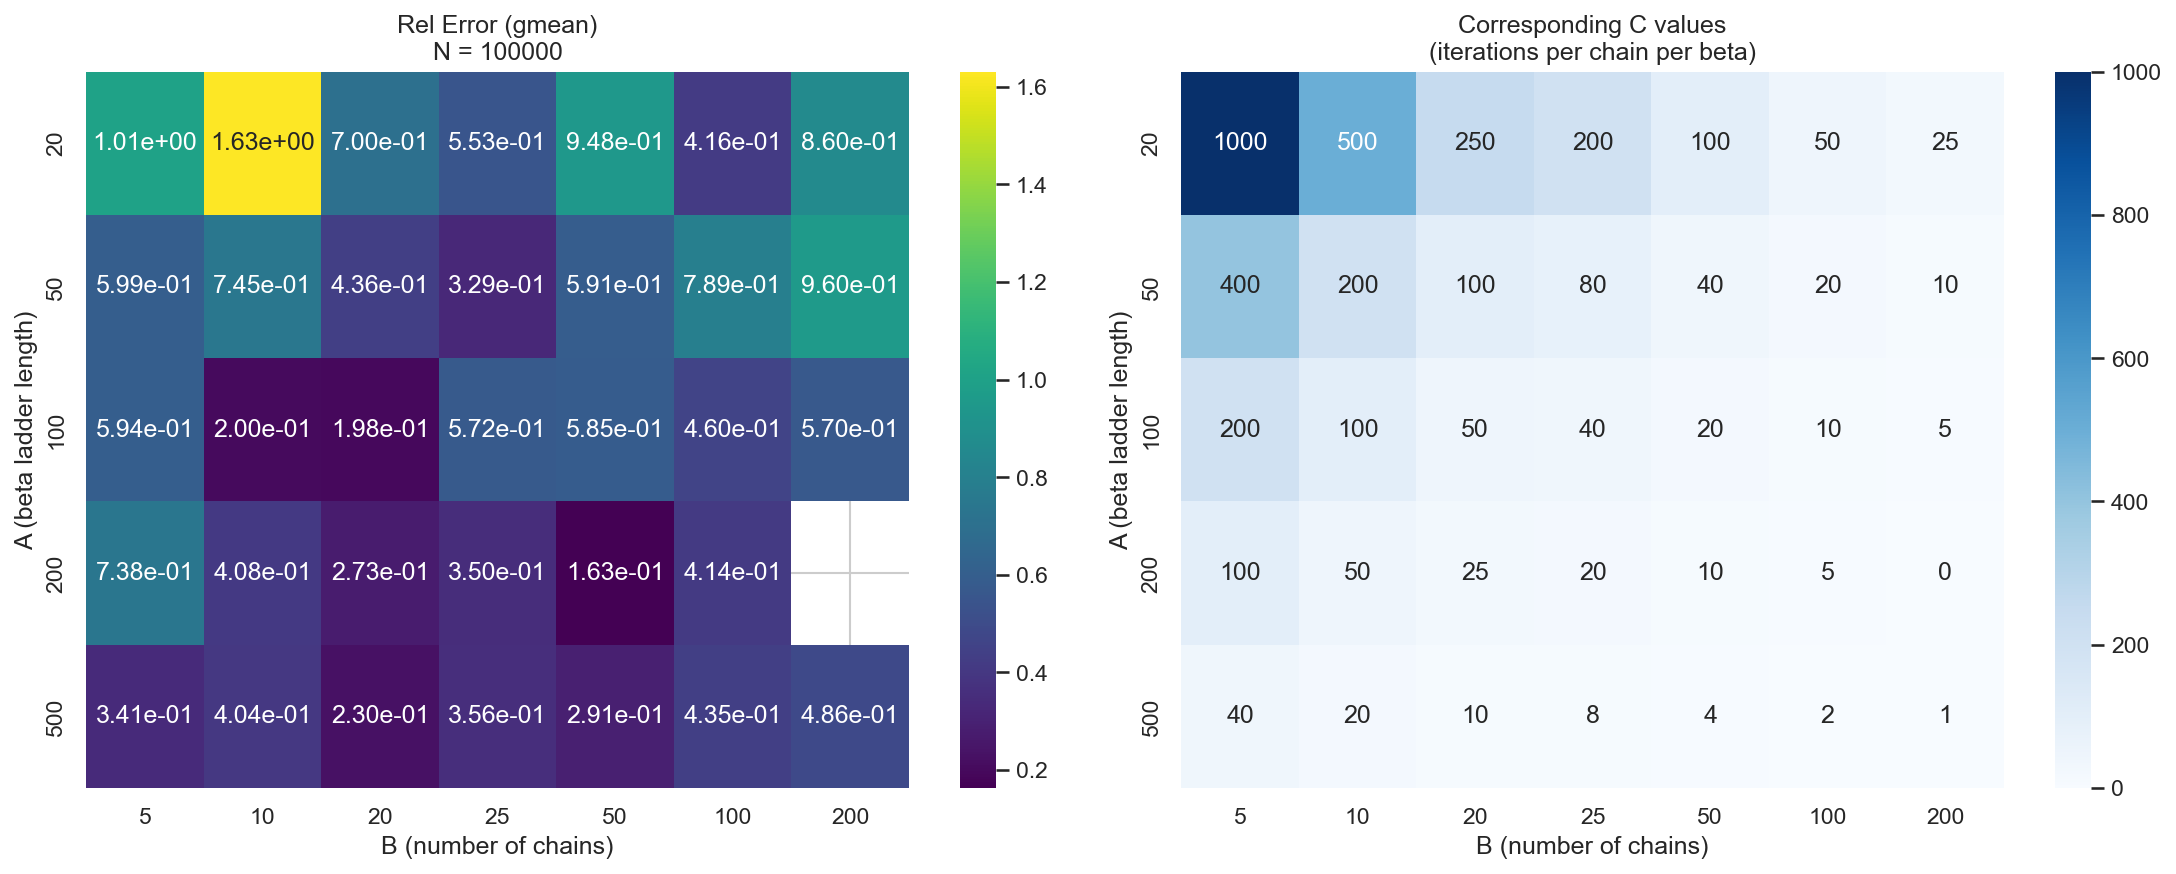
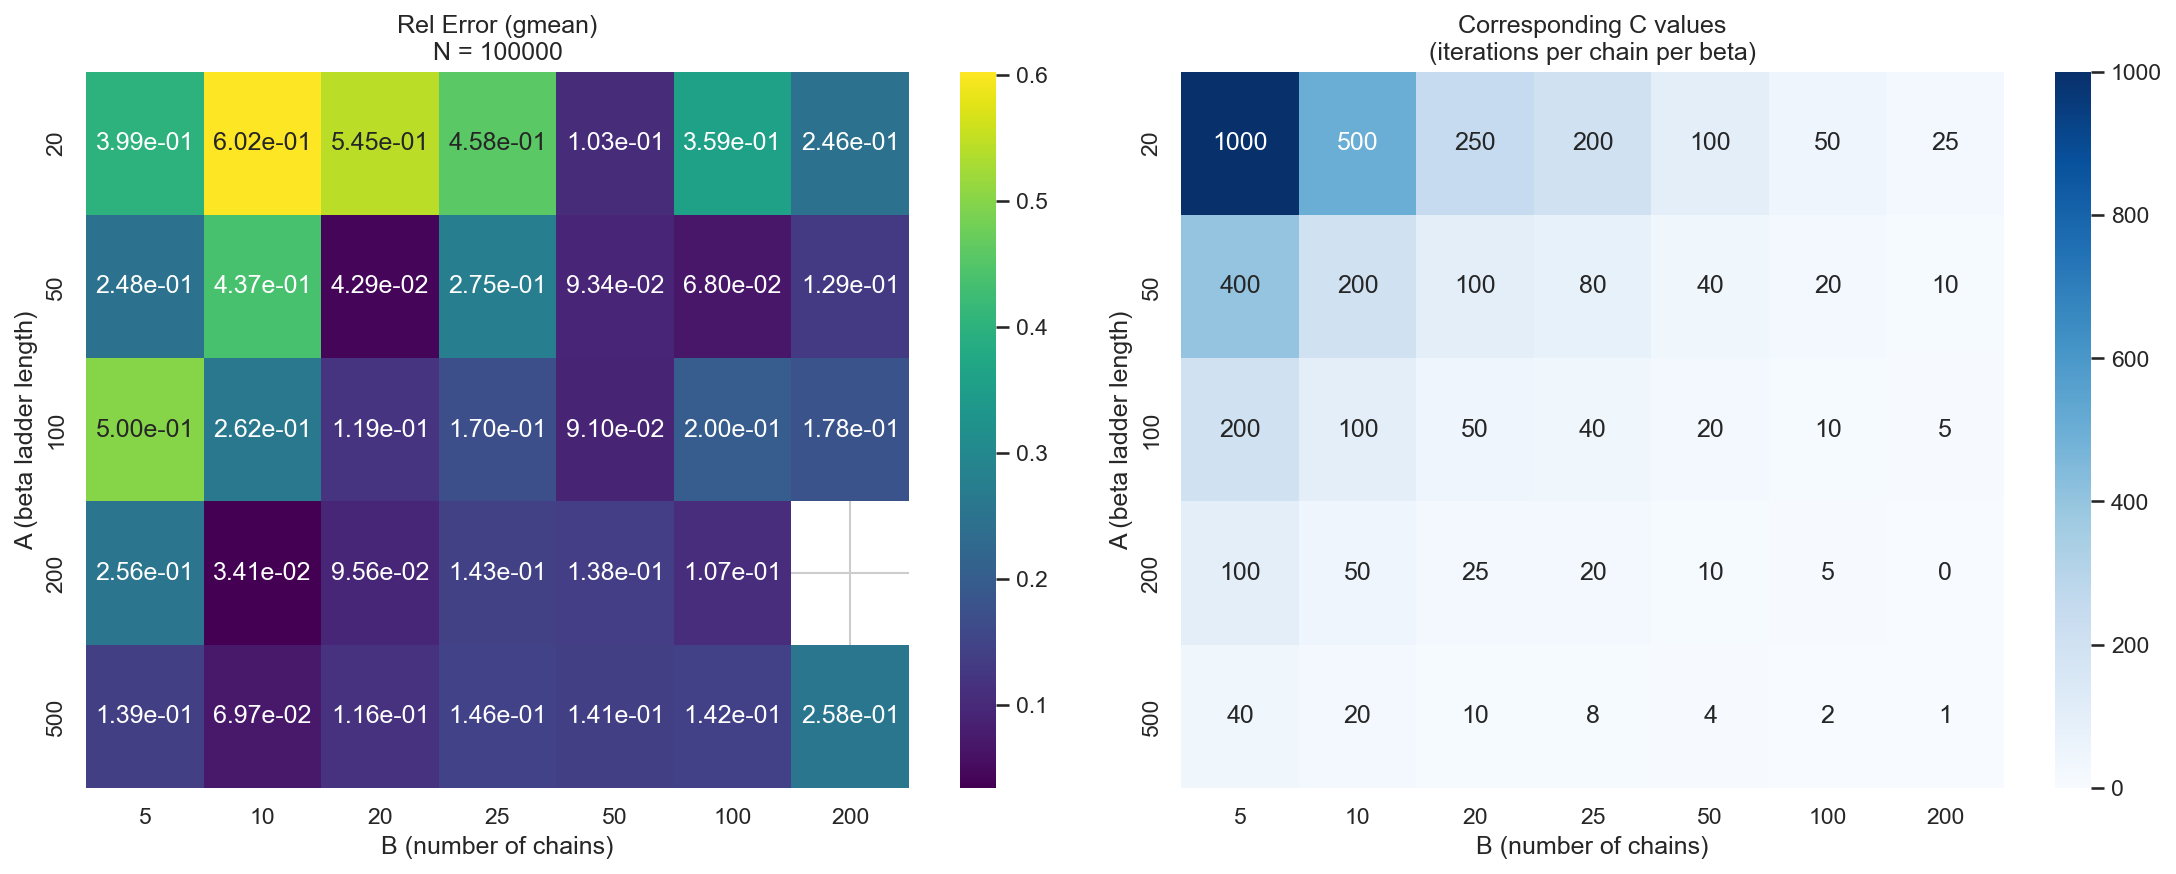
Add sparse weight model to test tensor networks with density-controlled   non-zero entries. Update heatmap plots for N=100000 and add cost   optimization grid CSV. Prototype sparse tensor visualization in notebook.

diff --git a/scripts/run_grid_heatmaps.py b/scripts/run_grid_heatmaps.py
@@ -79,18 +79,21 @@ def gstd_series(s):
 # ============================================================================
 
 def create_test_tensor_network(network_type="2x2_ring", dim=3, seed=42,
-                               eps=1e-6, alpha=0.6, spike_factor=10.0, jitter=0.1):
+                               eps=1e-6, alpha=0.6, spike_factor=10.0, jitter=0.1,
+                               sparse_density=0.3):
     """
     network_type options (topology + optional weight model):
       - "2x2_ring", "3x3_grid"                      (old behavior: N(1,0.1))
       - "2x2_ring_uniform1",   "3x3_grid_uniform1"  (uniform around 1, nonnegative)
       - "2x2_ring_diagexp",    "3x3_grid_diagexp"   (exponentially-decaying diagonal)
       - "2x2_ring_spikes",     "3x3_grid_spikes"    (uniform + diagonal spikes)
+      - "2x2_ring_sparse",     "3x3_grid_sparse"    (sparse tensor, density controlled by k)
 
     dim: index range size for each leg
     alpha: decay rate for diagexp
     spike_factor: multiplicative spike on diagonal entries for spikes
     jitter: half-width of uniform around 1, i.e., U[1-jitter, 1+jitter]
+    sparse_density: fraction of non-zero entries for sparse model (0 < k <= 1)
     """
     np.random.seed(seed)
 
@@ -125,6 +128,17 @@ def create_test_tensor_network(network_type="2x2_ring", dim=3, seed=42,
             idx = np.indices(shape)
             mask = np.all(idx == idx[0], axis=0)
             T[mask] *= spike_factor
+            return T
+
+        if model == "sparse":
+            # Create sparse tensor with density controlled by sparse_density (k)
+            T = np.full(shape, eps, dtype=float)
+            # Generate random mask for non-zero entries
+            mask = rng.random(size=shape) < sparse_density
+            # Fill non-zero entries with uniform values around 1
+            n_nonzero = np.sum(mask)
+            T[mask] = rng.uniform(1.0 - jitter, 1.0 + jitter, size=n_nonzero)
+            T = np.maximum(T, eps)
             return T
 
         raise ValueError(f"Unknown weight model in network_type: {model}")
